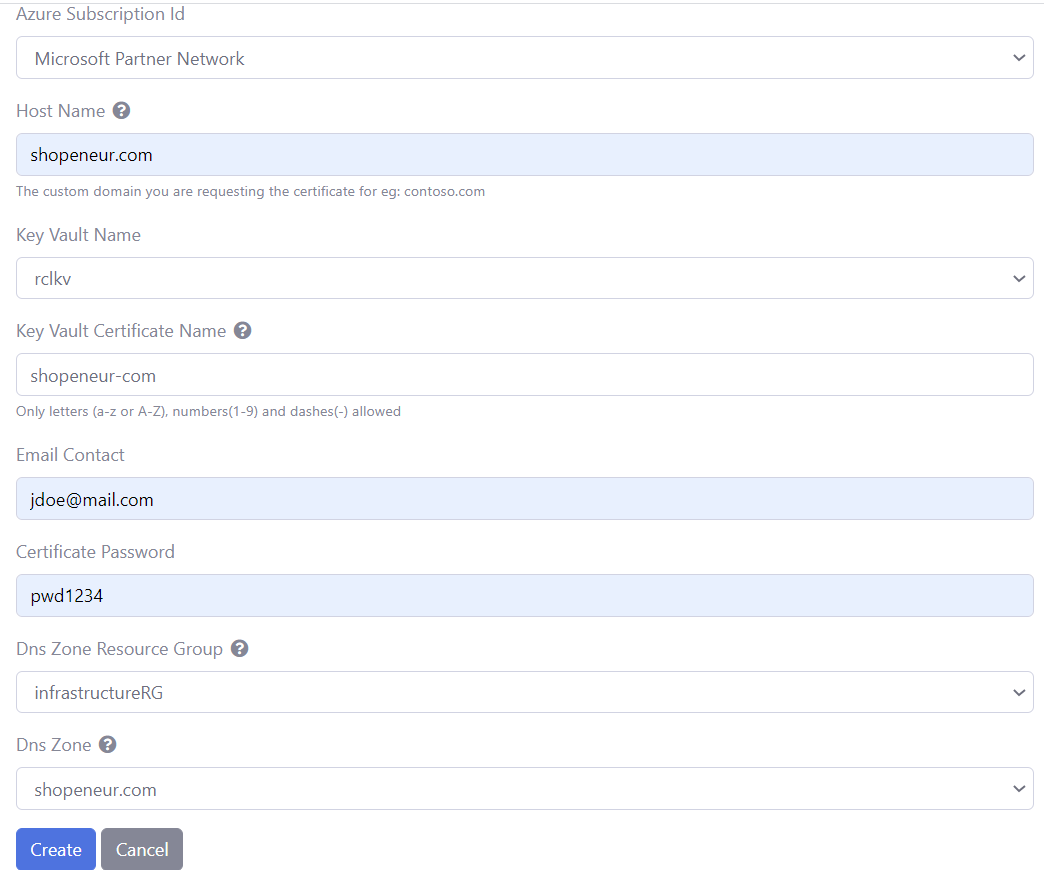
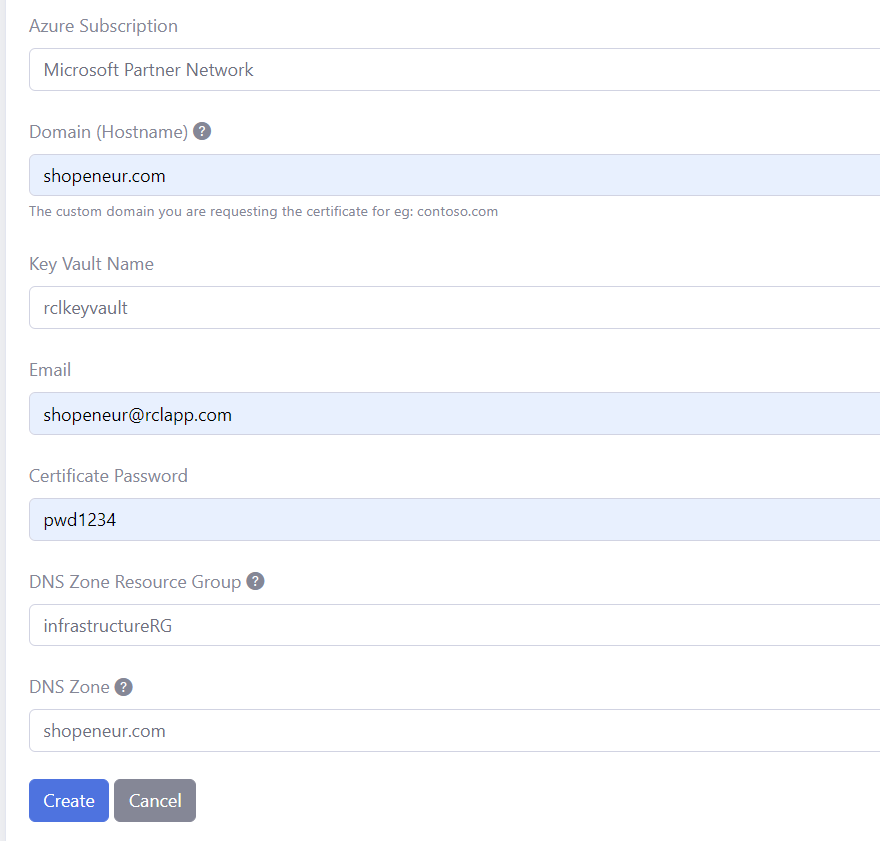
updated key vault

diff --git a/portal/azure-keyvault-san.md b/portal/azure-keyvault-san.md
@@ -6,6 +6,7 @@ nav_order: 8
 ---
 
 # SAN Certificate - Azure Key Vault
+**V6.0.10**
 
 RCL creates TLS/SSL certificates using an [Azure DNS Zone](https://docs.microsoft.com/en-us/azure/dns/dns-zones-records) and automatically saves them to [Azure Key Vault](https://docs.microsoft.com/en-us/azure/key-vault/general/basic-concepts).
 
@@ -25,13 +26,13 @@ If you try to manage Azure DNS / Key Vault with a MSA account you will get the f
 
 ![image](../images/portal/arm-consent-error.PNG)
 
-If you signed up for RCL with a personal Microsoft account (MSA), please follow the instructions in the following link to associate an AAD account to your subscription:
+If you signed up for the RCL Portal with a personal Microsoft account (MSA), please follow the instructions in the following link to associate an AAD account to your subscription:
 
 - [Sign-In Accounts for RCL](../authorization/sign-in-accounts)
 
 ## Set Access Control
 
-To create certificates for Azure DNS / Key Vault, the Azure AAD organizational account that you use to login to RCL must either be :
+To create certificates for Azure DNS / Key Vault, the Azure AAD organizational account that you use to login to the RCL Portal must either be :
 
 - An administrator to the subscription containing the Azure DNS Zone(s) / Key Vault(s)
 
@@ -85,9 +86,9 @@ This is required to import the SSL/TLS certificate in a Key Vault in your Azure 
 
 ![image](../images/portal/certificate-keyvault-access-policy-add.png)
 
-- Select all the permissions for the ‘Certificate permissions’ (approximately 16). Ensure you include the **purge** permission.
+- Select all the permissions for the ‘Certificate permissions’ (all 16 permissions). Ensure you include the **purge** permission.
 
-- Select a service principal : search for the Azure Active Directory organizational account that you use to login to RCL
+- Select a service principal : search for the Azure Active Directory organizational account that you use to login to the RCL Portal
 
 - Click the ‘Select’ button
 
@@ -115,9 +116,9 @@ This is required to import the SSL/TLS certificate in a Key Vault in your Azure 
 
 - In the case above, we are requesting a SAN SSL/TLS certificate for the naked apex domain, ‘shopeneur.com’. The wild card domain '*.shopeneur.com' will be automatically included in the certificate.
 
-- The Host Name must be valid for the DNS Zone. For instance, the naked apex domain ‘shopeneur.com’ is valid for the DNS Zone ‘shopeneur.com’
+- Select the Key Vault name.
 
-- Select the Key Vault name and add a unique certificate name for the key vault. The certificate name should only contain alphanumeric characters and dashes (-).
+- The Host Name must be valid for the DNS Zone. For instance, the naked apex domain ‘shopeneur.com’ is valid for the DNS Zone ‘shopeneur.com’
 
 ![image](../images/portal/azure-keyvault-san-create.PNG)
 
@@ -137,7 +138,7 @@ This is required to import the SSL/TLS certificate in a Key Vault in your Azure 
 
 # Manually Renewing SSL/TLS Certificates
 
-SSL/TLS certificates will expire in 90 days. You can manually renew a certificate at any point before the expiry date. Click on the 'Update' link in the certificates list to update a certificate.
+SSL/TLS certificates will expire in 90 days. You can manually renew a certificate at any point before the expiry date. Click on the 'Update' link in the 'Manage' menu in the certificates list to update a certificate.
 
 ![image](../images/portal/azure-dns-update.PNG)
 

diff --git a/portal/azure-keyvault.md b/portal/azure-keyvault.md
@@ -6,6 +6,7 @@ nav_order: 7
 ---
 
 # Creating SSL/TLS Certificates for Azure Key Vault
+**V6.0.10**
 
 RCL creates TLS/SSL certificates using an [Azure DNS Zone](https://docs.microsoft.com/en-us/azure/dns/dns-zones-records) and automatically saves them to [Azure Key Vault](https://docs.microsoft.com/en-us/azure/key-vault/general/basic-concepts).
 
@@ -19,7 +20,7 @@ If you try to manage an Azure DNS / Key Vault with a MSA account you will get th
 
 ![image](../images/portal/arm-consent-error.PNG)
 
-If you signed up for RCL with a personal Microsoft account (MSA), please follow the instructions in the following link to associate an AAD account to your subscription:
+If you signed up for the RCL Portal with a personal Microsoft account (MSA), please follow the instructions in the following link to associate an AAD account to your subscription:
 
 - [Sign-In Accounts for RCL](../authorization/sign-in-accounts)
 
@@ -79,9 +80,9 @@ This is required to import the SSL/TLS certificate in a Key Vault in your Azure 
 
 ![image](../images/portal/certificate-keyvault-access-policy-add.png)
 
-- Select all the permissions for the ‘Certificate permissions’ (approximately 16). Ensure you include the **purge** permission.
+- Select all the permissions for the ‘Certificate permissions’ (select all 16). Ensure you include the **purge** permission.
 
-- Select a service principal : search for the Azure Active Directory organizational account that you use to login to RCL
+- Select a service principal : search for the Azure Active Directory organizational account that you use to login to the RCL
 
 - Click the ‘Select’ button
 
@@ -109,9 +110,9 @@ Select the ‘Azure Key Vault’ option
 
 - In this case, we are requesting a SSL/TLS certificate for the custom primary domain, ‘shopeneur.com’.
 
-- The Host Name must be valid for the DNS Zone. For instance, ‘shopeneur.com’, ‘store.shopeneur.com’, ‘*.shopeneur.com’ is valid for the DNS Zone ‘shopeneur.com’
+- Select the Key Vault name.
 
-- Select the Key Vault name and add a unique certificate name for the key vault. The certificate name should only contain alphanumeric characters and dashes (-).
+- The Host Name must be valid for the DNS Zone. For instance, ‘shopeneur.com’, ‘store.shopeneur.com’, ‘*.shopeneur.com’ is valid for the DNS Zone ‘shopeneur.com’
 
 ![image](../images/portal/azure-keyvault-create.PNG)
 
@@ -131,7 +132,7 @@ Select the ‘Azure Key Vault’ option
 
 # Manually Renewing SSL/TLS Certificates
 
-SSL/TLS certificates will expire in 90 days. You can manually renew a certificate at any point before the expiry date. Click on the 'Update' link in the certificates list to update a certificate.
+SSL/TLS certificates will expire in 90 days. You can manually renew a certificate at any point before the expiry date. Click on the 'Update' link in the 'Manage' menu in the certificates list to update a certificate.
 
 ![image](../images/portal/azure-dns-update.PNG)
 

diff --git a/authorization/sign-in-accounts.md b/authorization/sign-in-accounts.md
@@ -55,13 +55,13 @@ To associate an AAD Work or School account follow these steps.
 
 ![image](../images/authorization_signin/signin-aad-associate.png)
 
-- After the account is associated with your subscription, sign in with the Work or School account in RCL.
+- After the account is associated with your subscription, sign in with the Work or School account in the RCL Portal.
 
 # Access Control
 
 To access resources in you Microsoft Azure account a further step is required. Your AAD Work or School account must be an 'Administrator' or 'Owner' on the subscription containing your azure resources. 
 
-Alternatively, you can assign the 'Contributor' or 'Owner' role to the sWork or School account in your azure subscription.
+Alternatively, you can assign the 'Contributor' or 'Owner' role to the Work or School account in your azure subscription.
 
 Refer to the following link for more information :
 

diff --git a/authorization/aad-account.md b/authorization/aad-account.md
@@ -40,7 +40,7 @@ You can also create a new user account to sign in to the RCL Portal.
 
 ![image](../images/authorization_signin/subscribe-aad-user-member.png)
 
-- You can use this new AAD organization account to login in to any of the RCL applications.
+- You can use this new AAD organization account to login in to any of the RCL Portal.
 
 # Sign In
 
